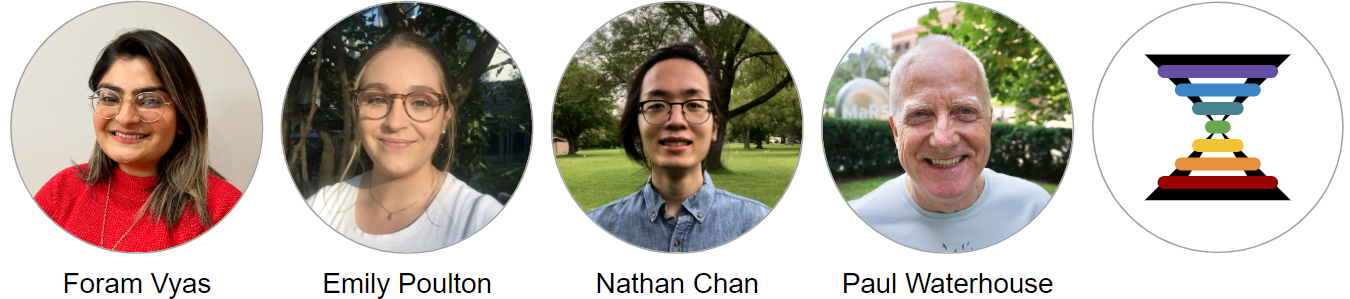
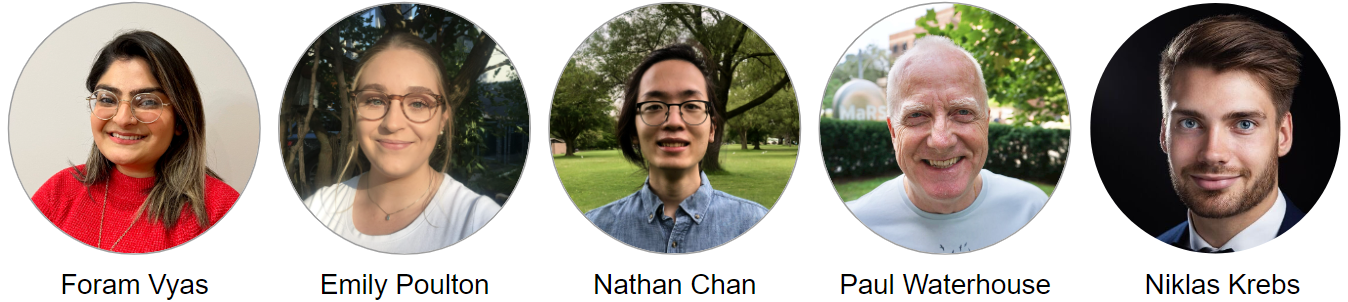
Update images

diff --git a/docs/index.html b/docs/index.html
@@ -21,7 +21,7 @@
   <meta name="twitter:description" content="This is the official documentation for Hourglass - learn how to install and utilize the tool." />
   
 
-<meta name="author" content="By Kazeera Aliar" />
+<meta name="author" content="Written by Kazeera Aliar" />
 
 
 
@@ -207,7 +207,7 @@ code span.wa { color: #60a0b0; font-weight: bold; font-style: italic; } /* Warni
             <section class="normal" id="section-">
 <div id="header">
 <h1 class="title">User’s Guide for Hourglass</h1>
-<p class="author"><em>By Kazeera Aliar</em></p>
+<p class="author"><em>Written by Kazeera Aliar</em></p>
 <p class="date" style="margin-top: 1.5em;"><em>last revised Aug 23, 2022</em></p>
 </div>
 <div id="about" class="section level1 hasAnchor" number="1">
@@ -228,16 +228,16 @@ Figure 1.2: The Hourglass concept: input data, computational processing, output 
 </div>
 <p><strong>Acknowledgements</strong></p>
 <p>We are ready to share Hourglass with the world. It’s about <em>time</em>.</p>
-<p>First of all, I would like to thank Dr. Barbara Grunwald, whose role cannot be overstated. She is the phenomenal force that helped conceptualize this toolbox and drove this project forward. It started off as a script, with 300 lines of code in a single for loop, and progressively grew bigger as we added more stains and figured out new ways to interrogate the data.</p>
-<p>Next, I would like to thank Henry Waterhouse, who built the graphical user interface with me, from planning to launch. Bowen Zhang and Parinaz Nasr Esfahani also supported software development and testing. Foram Vyas, Emily Poulton, and Nathan Chan are the image analysis experts who quantified the IHC data and consistently offered intelligent and creative feedback. I would like to thank my supervisor, Dr. Rama Khokha, Dr. Paul Waterhouse, and the rest of the Khokha Lab (<a href="https://khokhalab.ca/">https://khokhalab.ca/</a>) for sharing your excitement about Hourglass.</p>
+<p>First of all, I would like to thank Dr. Barbara Grünwald, whose role cannot be overstated. She is the phenomenal force that helped conceptualize this toolbox and drove this project forward. It started off as a script, with 300 lines of code in a single for loop, and progressively grew bigger as we added more stains and figured out new ways to interrogate the data.</p>
+<p>Next, I would like to thank Henry Waterhouse, who built the graphical user interface with me, from planning to launch. Bowen Zhang and Parinaz Nasr Esfahani also supported software development and testing. Foram Vyas, Emily Poulton, and Nathan Chan are the image analysis experts who quantified the IHC data and consistently offered intelligent and creative feedback. I would like to thank my supervisor, Dr. Rama Khokha, Dr. Paul Waterhouse, Niklas Krebs, and the rest of the Khokha Lab (<a href="https://khokhalab.ca/">https://khokhalab.ca/</a>) for sharing their excitement about Hourglass.</p>
 <p>I also would like to thank the developers of R, python, and Kivy for facilitating the making of Hourglass, the StackOverflow community for having the answers to everything, Github for providing a platform in which this program is easily accessible, and RStudio for creating R markdown and bookdown to facilitate the making of the R package and this book.</p>
 <p>- Kazeera</p>
 <p><strong>Contributors</strong></p>
-<p><img src="images/contributors11.PNG" width="40%" /><img src="images/contributors21.PNG" width="40%" /></p>
-<p><strong>Source Code for Book</strong></p>
-<p>See Github repository (<a href="https://github.com/kazeera/Hourglass-book">link</a>).</p>
-<p><strong>Contact Us</strong></p>
-<p>Open a new issue on Github (<a href="https://github.com/kazeera/Hourglass/issues">link</a>).</p>
+<p><img src="images/contributors11.PNG" width="70%" /><img src="images/contributors21.PNG" width="70%" /></p>
+<p><strong>Source Code for Book</strong><br />
+See Github repository (<a href="https://github.com/kazeera/Hourglass-book">link</a>).</p>
+<p><strong>Contact Us</strong><br />
+Open a new issue on Github (<a href="https://github.com/kazeera/Hourglass/issues">link</a>).</p>
 
 </div>
             </section>

diff --git a/docs/output-plot-types.html b/docs/output-plot-types.html
@@ -21,7 +21,7 @@
   <meta name="twitter:description" content="This is the official documentation for Hourglass - learn how to install and utilize the tool." />
   
 
-<meta name="author" content="By Kazeera Aliar" />
+<meta name="author" content="Written by Kazeera Aliar" />
 
 
 
@@ -210,7 +210,7 @@ code span.wa { color: #60a0b0; font-weight: bold; font-style: italic; } /* Warni
 <div id="navigating-output-folder" class="section level2 hasAnchor" number="7.1">
 <h2><span class="header-section-number">7.1</span> Navigating Output Folder<a href="output-plot-types.html#navigating-output-folder" class="anchor-section" aria-label="Anchor link to header"></a></h2>
 <div class="figure" style="text-align: center"><span id="fig:unnamed-chunk-30"></span>
-<img src="images/output_overview.PNG" alt="Hourglass Output Folder Hierarchy." width="100%" />
+<img src="images/output_overview.png" alt="Hourglass Output Folder Hierarchy." width="100%" />
 <p class="caption">
 Figure 7.1: Hourglass Output Folder Hierarchy.
 </p>

diff --git a/docs/how-to-use-the-desktop-application.html b/docs/how-to-use-the-desktop-application.html
@@ -21,7 +21,7 @@
   <meta name="twitter:description" content="This is the official documentation for Hourglass - learn how to install and utilize the tool." />
   
 
-<meta name="author" content="By Kazeera Aliar" />
+<meta name="author" content="Written by Kazeera Aliar" />
 
 
 

diff --git a/docs/how-to-use-the-r-package.html b/docs/how-to-use-the-r-package.html
@@ -21,7 +21,7 @@
   <meta name="twitter:description" content="This is the official documentation for Hourglass - learn how to install and utilize the tool." />
   
 
-<meta name="author" content="By Kazeera Aliar" />
+<meta name="author" content="Written by Kazeera Aliar" />
 
 
 

diff --git a/docs/input-data.html b/docs/input-data.html
@@ -21,7 +21,7 @@
   <meta name="twitter:description" content="This is the official documentation for Hourglass - learn how to install and utilize the tool." />
   
 
-<meta name="author" content="By Kazeera Aliar" />
+<meta name="author" content="Written by Kazeera Aliar" />
 
 
 

diff --git a/docs/installation.html b/docs/installation.html
@@ -21,7 +21,7 @@
   <meta name="twitter:description" content="This is the official documentation for Hourglass - learn how to install and utilize the tool." />
   
 
-<meta name="author" content="By Kazeera Aliar" />
+<meta name="author" content="Written by Kazeera Aliar" />
 
 
 

diff --git a/docs/what-is-hourglass.html b/docs/what-is-hourglass.html
@@ -21,7 +21,7 @@
   <meta name="twitter:description" content="This is the official documentation for Hourglass - learn how to install and utilize the tool." />
   
 
-<meta name="author" content="By Kazeera Aliar" />
+<meta name="author" content="Written by Kazeera Aliar" />
 
 
 
